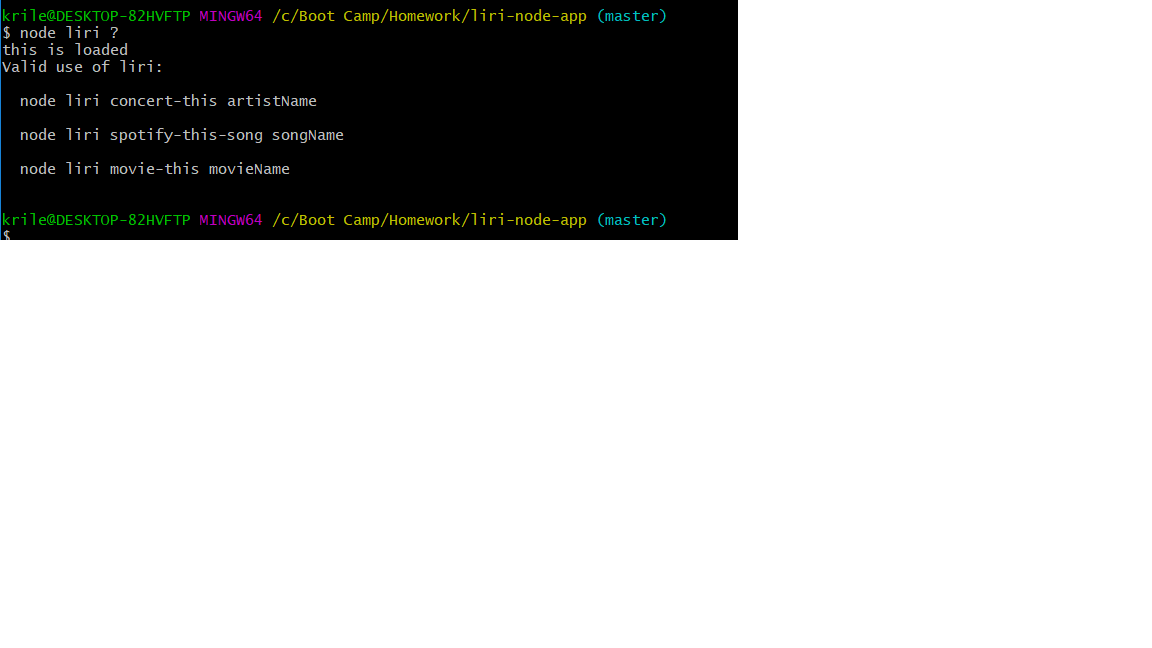
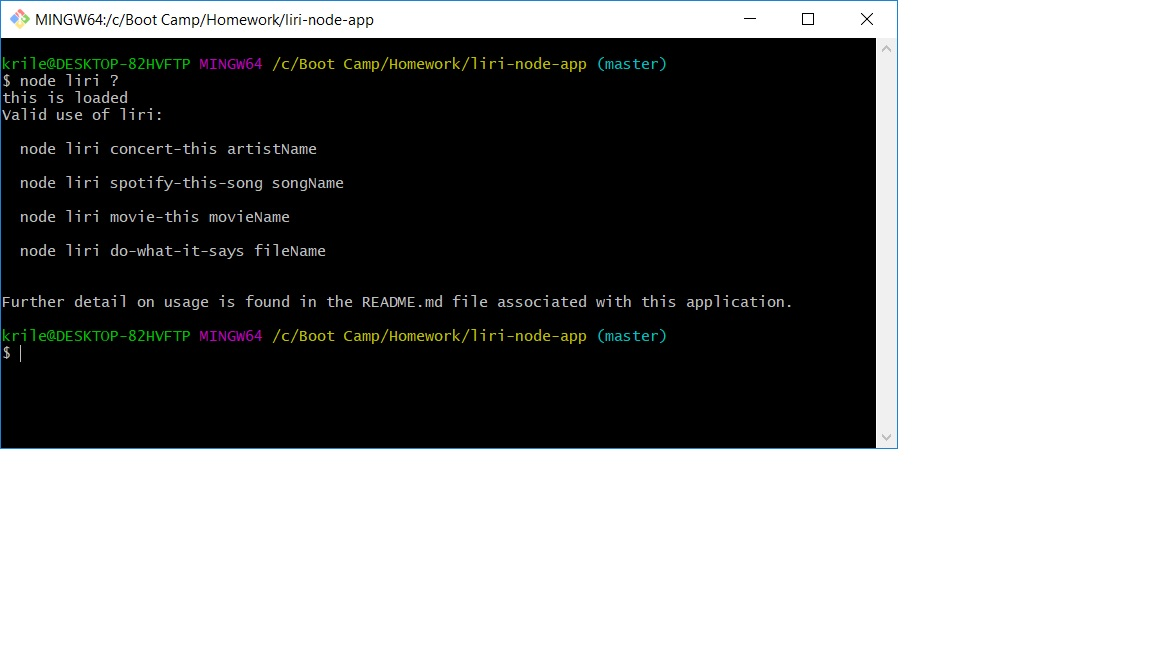
Updated info (?) image and info put out in response to a help request

diff --git a/liri.js b/liri.js
@@ -77,6 +77,8 @@ if ( command === "concert-this" ) {
     console.log( "  node liri concert-this artistName\n" );
     console.log( "  node liri spotify-this-song songName\n" );
     console.log( "  node liri movie-this movieName\n" ); 
+    console.log( "  node liri do-what-it-says fileName\n\n" );
+    console.log( "Further detail on usage is found in the README.md file associated with this application.")
 } else {
     console.log( "Unrecognized liri command: " + command );
     console.log( "Valid commands are: concert-this, spotify-this-song, movie-this, and do-what-it-says.")
